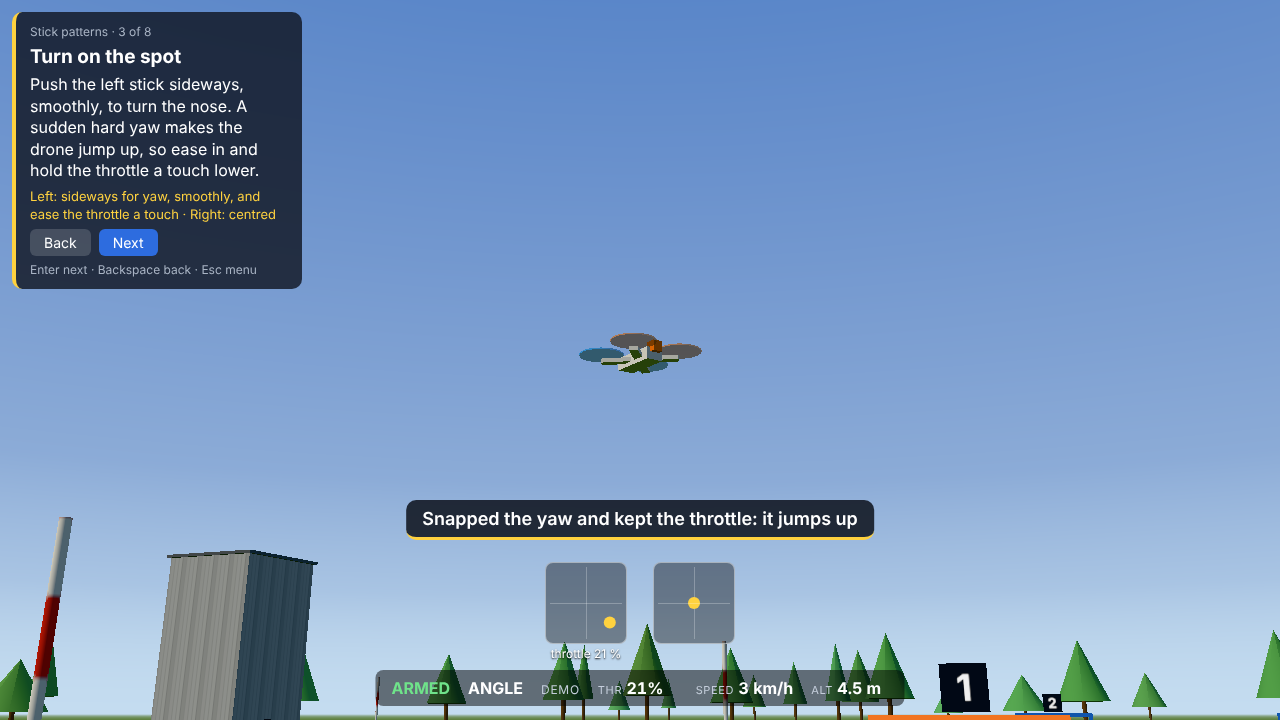
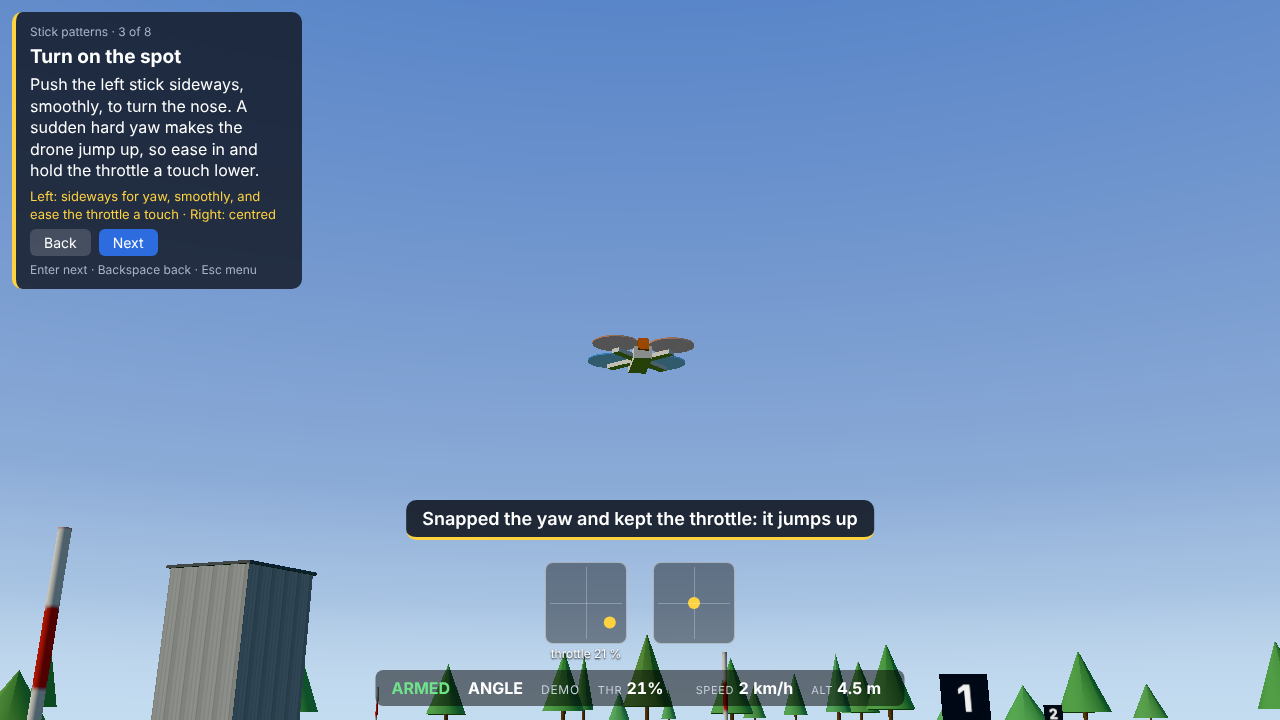
M10d: ground track and nose lines in the Banked turn and Orbit demos; README and docs for stick patterns

diff --git a/src/main.js b/src/main.js
@@ -192,7 +192,7 @@ const hook = (window.__sim = {
       race: { next: race.next, running: race.running, lapTime: race.lapTime, lastLap: race.lastLap, best: race.best, laps: race.laps, passed: race.passed },
       chapter: chapter ? { lesson: chapter.lesson.id, part: chapter.part, i: chapter.i } : null, demo: demo ? demo.card.demo : null, watching: !!watching,
       theory: theoryEl.hidden ? null : { where: theoryWhere.textContent, title: theoryTitle.textContent, text: theoryText.textContent, next: theoryNext.textContent },
-      hold: holdEl.hidden ? null : holdEl.textContent, held: !!(demo && demo.hold > 0), tags: [...tagsShown], marks: demo && demo.marks ? demo.marks.map((m) => m.text) : [], run: demo ? demo.run : null,
+      hold: holdEl.hidden ? null : holdEl.textContent, held: !!(demo && demo.hold > 0), tags: [...tagsShown], marks: demo && demo.marks ? demo.marks.map((m) => m.text) : [], run: demo ? demo.run : null, trail: trailLine.visible ? { points: trail.n, ticks: trail.ticks } : null,
       modelScale: quadModel.scale.x, theorySticks: theorySticks.hidden ? null : theorySticks.textContent, lessonPattern: lessonPattern.hidden || lessonEl.hidden ? null : lessonPattern.textContent, stickThr: sticksEl.hidden ? null : stickThr.textContent, patternHint: view.patternHint, nose: quadModel.userData.nose.visible,
       arrows: arrows.visible, arrowsOn: view.arrows, uptilt: uptiltNow(), uptiltSet: view.uptiltSet, toast: toast ? toast.text : null, curve: curveEl.hidden ? null : { d: (curveLine.getAttribute('d') || '').length, dot: Number(curveDot.getAttribute('cx')), label: curveMax.textContent }, seen: JSON.parse(JSON.stringify(seen)),
       app: appMode, menu: { open: menu.isOpen, screen: menu.screen, item: menu.current ? menu.current.textContent.trim() : null },
@@ -307,6 +307,7 @@ function placeDemo() {
   demo.run = demo.run === undefined ? 0 : (demo.run + 1) % (def.runs || 1);
   if (demo.run === 0) demo.marks = (def.marks || []).map((m) => ({ ...m }));
   demo.watch = {}; demo.hold = 0; demo.holdN = 0; demo.holdText = ''; demo.tags = null;
+  resetTrail(demo.run);
   const [x, y, z, yaw = 0] = demoStart(def, demo.run), h = (-yaw * DEG) / 2;
   resetFlight();
   sim.state.pos = [x, y, z]; sim.state.quat = [0, Math.sin(h), 0, Math.cos(h)];
@@ -488,7 +489,43 @@ scene.add(demoMarks);
 const tagsEl = document.getElementById('tags'), holdEl = document.getElementById('hold');
 const tagPool = [], _tv = new THREE.Vector3(), _tq = new THREE.Quaternion();
 let tagsShown = [];
+// Demo trail (def.trail): the ground track of the quad as a line, plus a short nose line every 0.4 s, so a still picture
+// shows where it went and where it pointed (a banked turn carves; yaw without roll turns the nose while the track runs on).
+const TRAIL_N = 1500, NOSE_N = 60, NOSE_LEN = 1.6;
+const trailGeo = new THREE.BufferGeometry(), noseGeo = new THREE.BufferGeometry();
+trailGeo.setAttribute('position', new THREE.BufferAttribute(new Float32Array(TRAIL_N * 3), 3));
+noseGeo.setAttribute('position', new THREE.BufferAttribute(new Float32Array(NOSE_N * 6), 3));
+const trailMat = new THREE.LineBasicMaterial({ color: 0x5ee07a }), noseMat = new THREE.LineBasicMaterial({ color: 0xffffff });
+const trailLine = new THREE.Line(trailGeo, trailMat), noseLines = new THREE.LineSegments(noseGeo, noseMat);
+trailLine.frustumCulled = noseLines.frustumCulled = false; trailLine.visible = noseLines.visible = false;
+scene.add(trailLine, noseLines);
+const trail = { n: 0, ticks: 0, lastT: -1 };
+function resetTrail(run) {
+  trail.n = 0; trail.ticks = 0; trail.lastT = -1;
+  trailGeo.setDrawRange(0, 0); noseGeo.setDrawRange(0, 0);
+  trailMat.color.setHex(run ? 0xff8a3d : 0x5ee07a);
+}
+function drawTrail(on) {
+  trailLine.visible = noseLines.visible = !!on;
+  if (!on) return;
+  const s = sim.state, y = 0.05;
+  const tp = trailGeo.attributes.position, np = noseGeo.attributes.position;
+  if (trail.n < TRAIL_N) {
+    const k = trail.n - 1;
+    if (k < 0 || Math.hypot(tp.getX(k) - s.pos[0], tp.getZ(k) - s.pos[2]) > 0.08) {
+      tp.setXYZ(trail.n++, s.pos[0], y, s.pos[2]); tp.needsUpdate = true; trailGeo.setDrawRange(0, trail.n);
+    }
+  }
+  if (trail.ticks < NOSE_N && (trail.lastT < 0 || s.time - trail.lastT >= 0.4)) {
+    trail.lastT = s.time;
+    const f = rotate(s.quat, [0, 0, -1]), l = Math.hypot(f[0], f[2]) || 1;
+    np.setXYZ(trail.ticks * 2, s.pos[0], y, s.pos[2]);
+    np.setXYZ(trail.ticks * 2 + 1, s.pos[0] + (f[0] / l) * NOSE_LEN, y, s.pos[2] + (f[2] / l) * NOSE_LEN);
+    trail.ticks++; np.needsUpdate = true; noseGeo.setDrawRange(0, trail.ticks * 2);
+  }
+}
 function drawDemoMarks(scale) {
+  drawTrail(demo && scale && demo.def.trail);
   const marks = demo && scale ? demo.marks || [] : [];
   if (demoMarks.children.length !== marks.length || demoMarks.userData.of !== marks) {
     for (const c of demoMarks.children) { c.geometry.dispose(); c.material.dispose(); }

diff --git a/src/demos.js b/src/demos.js
@@ -146,10 +146,10 @@ export const DEMOS = {
     fly: (t, s, h) => level(s, h, 2.5, { pitch: between(t, 0.8, 2.3) ? 0.3 : !h.run && t >= 2.3 && s.vel[0] > 0.4 ? -0.5 : 0 }) },
   'pat-nose-in': { start: [...SPOT, 180], cam: NOSE_CAM, nose: true, scale: 3, loop: 6.5, captions: ['Nose toward you: roll right moves it to YOUR left'],
     fly: (t, s, h) => (between(t, 1.5, 2.5) ? level(s, h, 2.5, { roll: 0.3 }) : between(t, 2.5, 4) ? level(s, h, 2.5) : h.hold(s, ...SPOT)) },
-  'pat-turn': { runs: 2, start: [-8, 2.5, 1], cam: [0.8, 15, 9], look: [0.8, 0, -3], fov: 62, scale: 5, loop: 10,
+  'pat-turn': { runs: 2, trail: true, start: [-8, 2.5, 1], cam: [0.8, 15, 9], look: [0.8, 0, -3], fov: 62, scale: 5, loop: 10,
     captions: ['Roll and yaw the same way, with forward: it carves round', 'Forgot the roll: the nose turns, the drone slides sideways'],
     fly: (t, s, h) => level(s, h, 2.5, t < 1.5 ? { pitch: 0.35 } : { pitch: 0.35, yaw: 0.2, roll: h.run ? 0 : 0.4 }) },
-  'pat-orbit': { start: [-6, 3, -12, 90], cam: [0, 6, 4], loop: 12, captions: ['Orbit: roll toward the centre, yaw the same way, a little forward'],
+  'pat-orbit': { trail: true, start: [-6, 3, -12, 90], cam: [0, 6, 4], loop: 12, captions: ['Orbit: roll toward the centre, yaw the same way, a little forward'],
     fly: (t, s) => { const a = t * 0.5 + Math.PI; return steer(s, 6 * Math.cos(a) - s.pos[0], -12 + 6 * Math.sin(a) - s.pos[2], 4, 3); } },
 };
 

diff --git a/README.md b/README.md
@@ -39,7 +39,7 @@ Other gamepads with the standard layout work like the PlayStation one (RB arm, L
 
 ## How to play
 
-The page opens on a menu: **Learn**, **Gates**, **Free fly**, **Theory**, **Settings**. Nothing is locked: open any chapter, skip any part from the pause menu (Options or Esc), or go straight to the gates.
+The page opens on a menu: **Learn**, **Gates**, **Free fly**, **Theory**, **Stick patterns**, **Settings**. Nothing is locked: open any chapter, skip any part from the pause menu (Options or Esc), or go straight to the gates.
 
 - **Learn.** Eight chapters. Each has up to four parts, all optional: **Learn** (short cards, each shown live in the sim with the real forces drawn as arrows), **Watch** (a test pilot flies the lesson, sticks on screen), **Check** (two or three quick questions) and **Try** (you fly it). ✕ or Enter goes to the next card, ◯ or Backspace back.
 - **Theory** lists every card, to look one up again at any time.
@@ -50,6 +50,10 @@ The page opens on a menu: **Learn**, **Gates**, **Free fly**, **Theory**, **Sett
 - **Quad** (Settings, under "Feel tuning"): *Trainer* is the same quad limited to 70 % power, the default. *5-inch freestyle* is full power.
 - **Crash:** the quad goes back to the pad after a moment. R (or Share / Create on the controller) does the same at any time.
 - Other keys: V view, C chase view, O stick overlay, M mode.
+
+## Stick patterns
+
+In the menu, next to Theory. Eight moves (hover, up and down, turn on the spot, fly forward, stop, nose toward you, banked turn, orbit), each with both sticks written out and flown live with the sticks on screen. Most are flown twice: once right, once with one part forgotten, so you see what goes wrong (snap the yaw and it jumps up; forget the throttle when you go forward and it sinks). In Try, the lesson's pattern shows as a small reminder; switch it off in Settings ("Pattern reminder"). Under the left stick the overlay shows the throttle value live: on a PlayStation stick a sideways push for yaw often moves the throttle too.
 
 ## Helpers
 

diff --git a/docs/theory.md b/docs/theory.md
@@ -39,6 +39,21 @@ The arrows (`src/arrows.js`) are the sim's own numbers each frame: thrust of eac
 
 The rates card also draws the rates curve: rotation speed against stick position from `actualRate()` with the quad's current rates, and a dot at the stick's position during the flip.
 
+## Stick patterns (M10d)
+
+`src/patterns.js` lists 8 patterns; each plays a demo in `src/demos.js` (`pat-*`). Most fly twice: run 1 the whole pattern, run 2 with one part forgotten. Measured on the Trainer quad (`test/unit/demos.test.mjs` checks both quads):
+
+| Pattern | Whole | One part forgotten |
+|---|---|---|
+| Hover | holds 2.50 m after 5.5 s | throttle 4 points under hover: down to the ground (0.05 m) by 5.5 s |
+| Turn on the spot | eased yaw (0.6, in over 1.5 s) with height hold: highest 2.49 m | snapped yaw 0.7, throttle kept: up to 6.0 m within 3.5 s (the yaw jump, docs/physics.md) |
+| Fly forward | forward 0.35 plus throttle: lowest 2.29 m | throttle kept at hover: sinks to 0.91 m in 2.5 s |
+| Stop | back stick early: stops 3.4 m after the release point | only centred: still gliding, 5.5 m further by 6 s |
+| Banked turn | roll + yaw + forward: velocity within 9 deg of the nose on average | yaw without roll: velocity 60 deg off the nose on average (it slides) |
+| Up and down, Nose toward you, Orbit | one run each; same moves as the hover, nose-in and orbit cards | |
+
+The Banked turn and Orbit demos draw the ground track (green for the whole pattern, orange for the forgotten part) and a white nose line every 0.4 s, so a still picture shows the nose turning while the track runs straight. The stick overlay under the demo shows the demo's real sticks and the throttle value.
+
 ## Helpers (M10)
 
 **Force arrows while flying.** The same arrows as in the demos (`src/arrows.js`, same scales), switched on with F or in Settings, drawn in line-of-sight and chase view. In FPV the camera is on the quad, so they are not drawn. Checked in Chrome: hovering, the four thrusts add up to the weight (6.67 N against 6.67 N).

diff --git a/PROGRESS.md b/PROGRESS.md
@@ -202,3 +202,4 @@ Live link: https://mickethegeek.github.io/fpv-sim/ (not checkable from the cloud
 - 2026-11-17 10:47 Zurich · M10d started (research only): the sim's yaw climb comes from the thrust-space mixer + airmode shift; Betaflight LEGACY mixer doc and one 5-inch pilot thread say real quads climb a little on sharp yaw, no number yet; Betaflight source not reachable this leg; notes in "For M10d" · next: M10d (find a number, then fix or teach; thumb coupling; stick patterns)
 - 2026-11-17 10:45 Zurich · M10d: yaw climb is real (Betaflight 4.2 tuning notes: big fast yaw drives one motor pair to 100 % and the other to zero; 'yaw jump'), sim keeps it, adds Betaflight's yaw pidsum limit (400 vs 500, cited): full yaw from hover now 4.2 m in 2 s, half 1.2 m, size UNSOURCED (docs/physics.md 'Yaw jump'); src/patterns.js with 8 stick patterns and their demos (whole, then one part forgotten: snapped yaw jumps, no throttle sinks, no roll slides); 79 unit tests · next: Stick patterns page in the menu, live throttle readout on the stick overlay, reminder in Try
 - 2026-11-17 10:52 Zurich · M10d: Stick patterns page in the menu (8 moves, each flown whole then with one part forgotten, captioned), live throttle under the left stick, pattern reminder in Try with a Settings toggle; M10d block 9 checks and M8 block pass in Chrome; screenshots proof/M10d/97 to 101 looked at · next: make the Banked turn demo readable, docs, full run, tick M10d (see 'M10d status' in the notes)
+- 2026-11-17 11:07 Zurich · M10d: Banked turn and Orbit demos draw the ground track (green whole, orange forgotten part) with a white nose line every 0.4 s; README Stick patterns section; docs/theory.md table of the pattern demos (measured); 79 unit tests; M10d block running in Chrome · next: screenshots, full run, tick M10d
